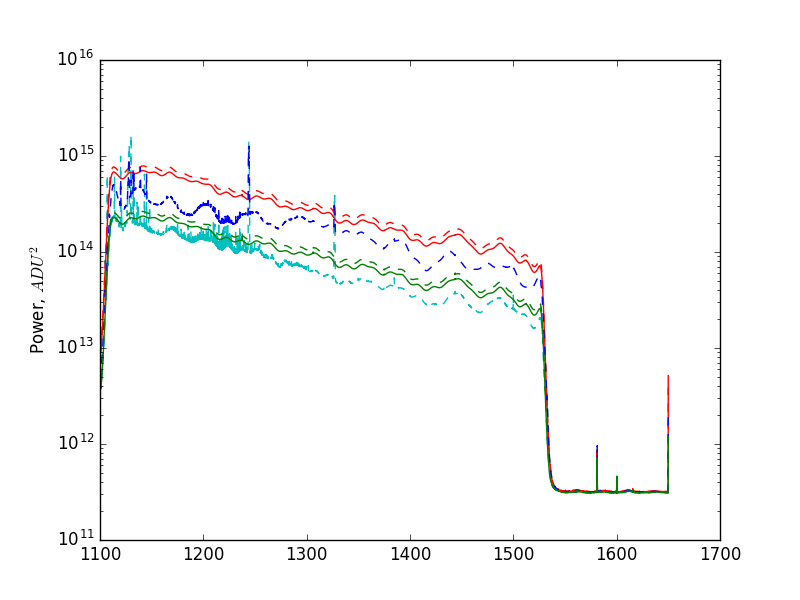
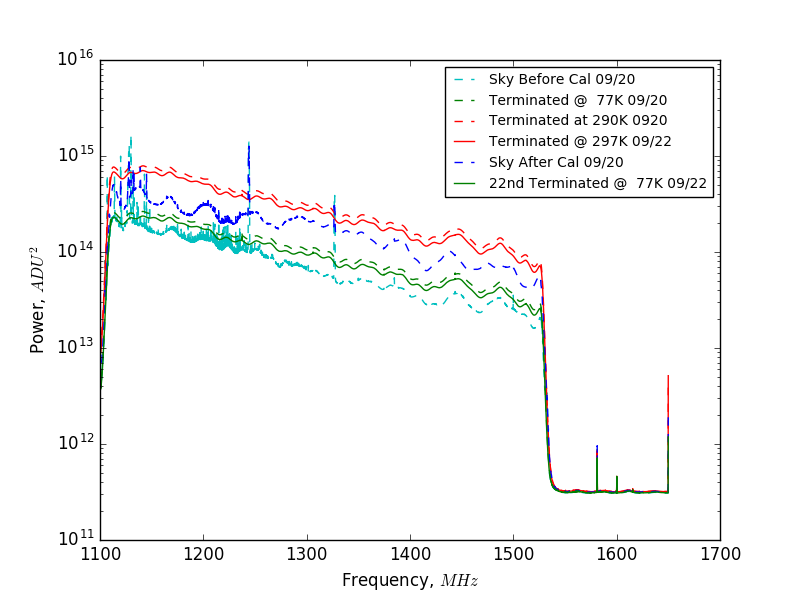
new plots

Changed region(s): [[0.5312, 0.09, 0.9062, 0.33], [0.4375, 0.96, 0.5938, 0.99]]

diff --git a/logbook/postings/20170922_Calibration/index.md b/logbook/postings/20170922_Calibration/index.md
@@ -61,10 +61,14 @@ cluttered...
 
 ### Calibrated Spectra:
 
+This is the uncalibrated spectrum from the 22nd:
 This spectra has been calibrated using the same approach as was described in
 previous [posting.](../20170906_sans_RFI_calibrated_spectrum/index.md)
 
 ![log](calspec_log.png)
+
+Here is the before and after, with spectra from the 20th and 22nd.
+![cal2](BnAcal.png)
 
 ### Ratio of the gain measurements:
 
